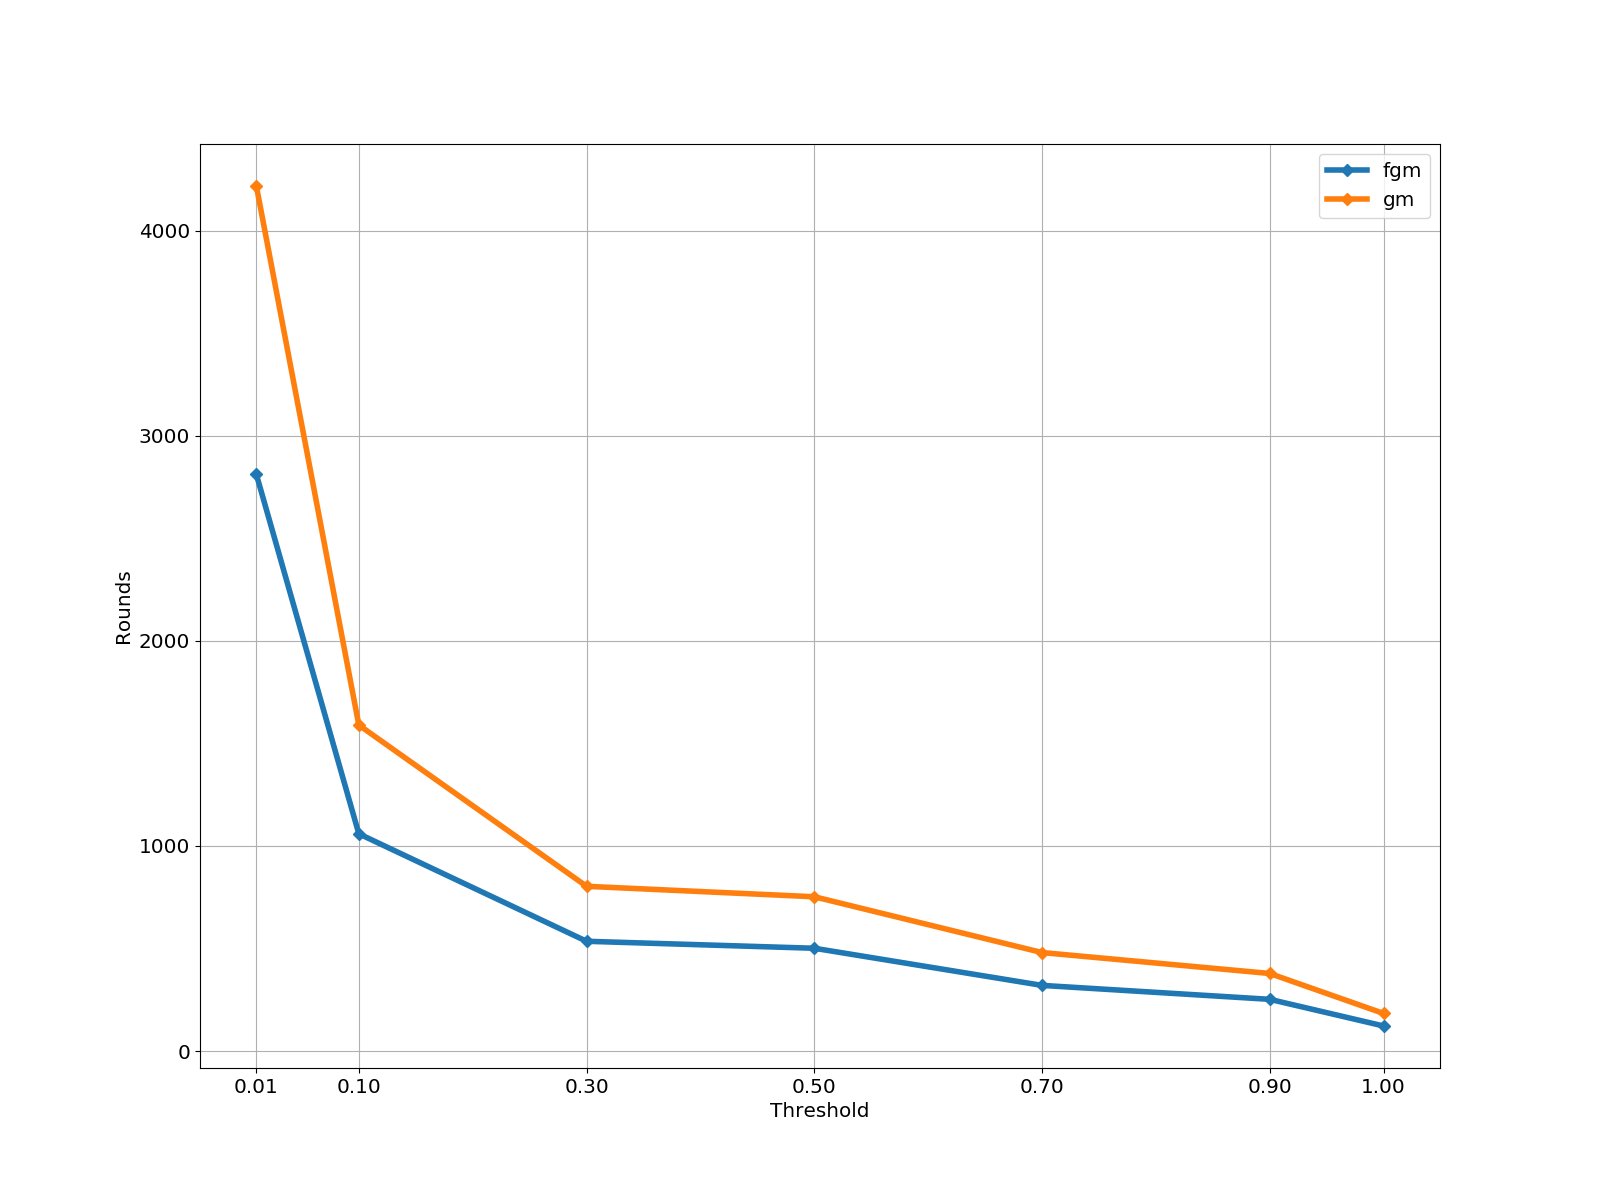
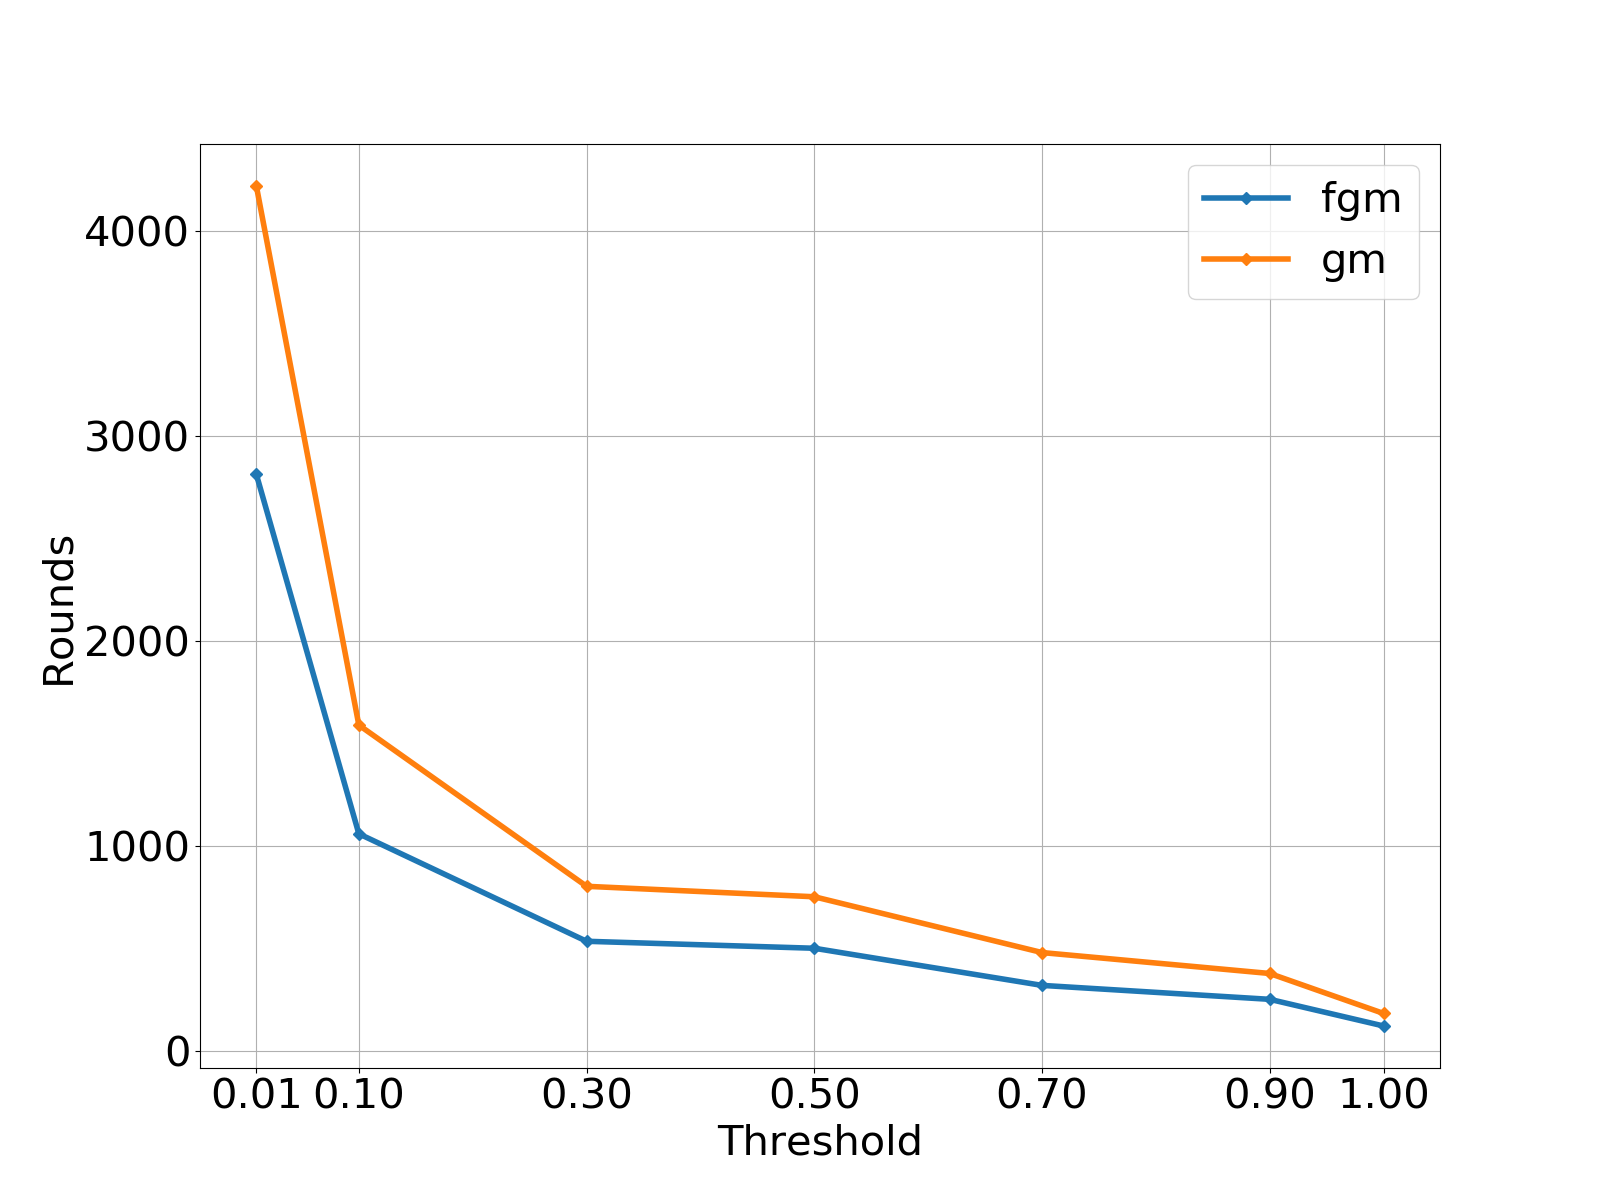
Result figures are now better on vision.

diff --git a/python/gm-fgm-amazon.py b/python/gm-fgm-amazon.py
@@ -11,6 +11,10 @@ gm_headers = ['id', 'threshold', 'batch-size', 'sites',
 
 gm_df = pd.read_csv('../results/gm-amazon.csv', usecols=gm_headers)
 
+FONT_SIZE = 30
+plt.rc('font', size=(FONT_SIZE - 8))
+
+
 # #### Model accuracy and rounds for various **thresholds** ####
 # - ***Threshold: { 0.01, 0.1, 0.3, 0.5, 0.7, 0.9, 1 }***
 # - Batch size: 16
@@ -32,13 +36,13 @@ y_centr = [98.37, 98.37, 98.37, 98.37, 98.37, 98.37, 98.37]
 plt.figure(figsize=(16, 12))
 plt.plot(x, y_fgm, label="fgm", marker='D', linewidth=4)
 plt.plot(x, y_gm, label="gm", marker='D', linewidth=4)
-plt.plot(x, y_centr, label="centralized")
-plt.xlabel('Threshold', fontsize='x-large')
-plt.ylabel('Accuracy', fontsize='x-large')
-plt.legend(loc='best', fontsize='x-large')
+plt.plot(x, y_centr, label="centralized", linewidth=4)
+plt.xlabel('Threshold', fontsize=FONT_SIZE)
+plt.ylabel('Accuracy', fontsize=FONT_SIZE)
+plt.legend(loc='best', fontsize=FONT_SIZE)
 plt.grid(True)
-plt.xticks(x, fontsize='x-large')
-plt.yticks(fontsize='x-large')
+plt.xticks(x, fontsize=FONT_SIZE)
+plt.yticks(fontsize=FONT_SIZE)
 plt.savefig("figs/exp_Fig_1_1")
 
 # Rounds
@@ -47,12 +51,12 @@ y_gm = _sorted_gm['rounds']
 plt.figure(figsize=(16, 12))
 plt.plot(x, y_fgm, label="fgm", marker='D', linewidth=4)
 plt.plot(x, y_gm, label="gm", marker='D', linewidth=4)
-plt.xlabel('Threshold', fontsize='x-large')
-plt.ylabel('Rounds', fontsize='x-large')
-plt.legend(loc='best', fontsize='x-large')
+plt.xlabel('Threshold', fontsize=FONT_SIZE)
+plt.ylabel('Rounds', fontsize=FONT_SIZE)
+plt.legend(loc='best', fontsize=FONT_SIZE)
 plt.grid(True)
-plt.xticks(x, fontsize='x-large')
-plt.yticks(fontsize='x-large')
+plt.xticks(x, fontsize=FONT_SIZE)
+plt.yticks(fontsize=FONT_SIZE)
 plt.savefig("figs/exp_Fig_1_2")
 
 # Traffic
@@ -61,20 +65,20 @@ y_gm = _sorted_gm['traffic']
 plt.figure(figsize=(16, 12))
 plt.plot(x, y_fgm, label="fgm", marker='D', linewidth=4)
 plt.plot(x, y_gm, label="gm", marker='D', linewidth=4)
-plt.xlabel('Threshold', fontsize='x-large')
-plt.ylabel('Traffic', fontsize='x-large')
-plt.legend(loc='best', fontsize='x-large')
+plt.xlabel('Threshold', fontsize=FONT_SIZE)
+plt.ylabel('Traffic', fontsize=FONT_SIZE)
+plt.legend(loc='best', fontsize=FONT_SIZE)
 plt.grid(True)
-plt.xticks(x, fontsize='x-large')
-plt.yticks(fontsize='x-large')
+plt.xticks(x, fontsize=FONT_SIZE)
+plt.yticks(fontsize=FONT_SIZE)
 plt.savefig("figs/exp_Fig_1_3")
 
 # #### Model accuracy and rounds for various **batch sizes** ####
 # - Threshold: 0.5
 # - ***Batch size: {1, 4, 16, 32, 64, 128}***
 # - Sites: 8
-# 
-# (Note! Experiment executes: 30) 
+#
+# (Note! Experiment executes: 30)
 fgm_subdf = fgm_df[(fgm_df['id'] >= 8) & (fgm_df['id'] <= 13)]
 _sorted_fgm = fgm_subdf.sort_values('batch-size')
 
@@ -90,13 +94,13 @@ y_centr = [98.37, 98.37, 98.37, 98.37, 98.37, 98.37]
 plt.figure(figsize=(16, 12))
 plt.plot(x, y_fgm, label="fgm", marker='D', linewidth=4)
 plt.plot(x, y_gm, label="gm", marker='D', linewidth=4)
-plt.plot(x, y_centr, label="centralized")
-plt.xlabel('Batch Size', fontsize='x-large')
-plt.ylabel('Accuracy', fontsize='x-large')
-plt.legend(loc='best', fontsize='x-large')
+plt.plot(x, y_centr, label="centralized", linewidth=4)
+plt.xlabel('Batch Size', fontsize=FONT_SIZE)
+plt.ylabel('Accuracy', fontsize=FONT_SIZE)
+plt.legend(loc='best', fontsize=FONT_SIZE)
 plt.grid(True)
-plt.xticks(x, fontsize='x-large')
-plt.yticks(fontsize='x-large')
+plt.xticks(x, fontsize=FONT_SIZE)
+plt.yticks(fontsize=FONT_SIZE)
 plt.savefig("figs/exp_Fig_2_1")
 
 # Rounds
@@ -105,12 +109,12 @@ y_gm = _sorted_gm['rounds']
 plt.figure(figsize=(16, 12))
 plt.plot(x, y_fgm, label="fgm", marker='D', linewidth=4)
 plt.plot(x, y_gm, label="gm", marker='D', linewidth=4)
-plt.xlabel('Batch Size', fontsize='x-large')
-plt.ylabel('Rounds', fontsize='x-large')
-plt.legend(loc='best', fontsize='x-large')
+plt.xlabel('Batch Size', fontsize=FONT_SIZE)
+plt.ylabel('Rounds', fontsize=FONT_SIZE)
+plt.legend(loc='best', fontsize=FONT_SIZE)
 plt.grid(True)
-plt.xticks(x, fontsize='x-large')
-plt.yticks(fontsize='x-large')
+plt.xticks(x, fontsize=FONT_SIZE)
+plt.yticks(fontsize=FONT_SIZE)
 plt.savefig("figs/exp_Fig_2_2")
 
 # Traffic
@@ -119,20 +123,20 @@ y_gm = _sorted_gm['traffic']
 plt.figure(figsize=(16, 12))
 plt.plot(x, y_fgm, label="fgm", marker='D', linewidth=4)
 plt.plot(x, y_gm, label="gm", marker='D', linewidth=4)
-plt.xlabel('Batch size', fontsize='x-large')
-plt.ylabel('Traffic', fontsize='x-large')
-plt.legend(loc='best', fontsize='x-large')
+plt.xlabel('Batch size', fontsize=FONT_SIZE)
+plt.ylabel('Traffic', fontsize=FONT_SIZE)
+plt.legend(loc='best', fontsize=FONT_SIZE)
 plt.grid(True)
-plt.xticks(x, fontsize='x-large')
-plt.yticks(fontsize='x-large')
+plt.xticks(x, fontsize=FONT_SIZE)
+plt.yticks(fontsize=FONT_SIZE)
 plt.savefig("figs/exp_Fig_2_3")
 
 # #### Model accuracy and rounds for various **sites** ####
 # - Threshold: 0.5
 # - Batch size: 16
 # - ***Sites: {4, 8, 16, 32, 64, 128}***
-# 
-# (Note! Experiment executes: 30) 
+#
+# (Note! Experiment executes: 30)
 fgm_subdf = fgm_df[(fgm_df['id'] >= 14) & (fgm_df['id'] <= 19)]
 _sorted_fgm = fgm_subdf.sort_values('sites')
 
@@ -148,13 +152,13 @@ y_centr = [98.37, 98.37, 98.37, 98.37, 98.37, 98.37]
 plt.figure(figsize=(16, 12))
 plt.plot(x, y_fgm, label="fgm", marker='D', linewidth=4)
 plt.plot(x, y_gm, label="gm", marker='D', linewidth=4)
-plt.plot(x, y_centr, label="centralized")
-plt.xlabel('Sites', fontsize='x-large')
-plt.ylabel('Accuracy', fontsize='x-large')
-plt.legend(loc='best', fontsize='x-large')
+plt.plot(x, y_centr, label="centralized", linewidth=4)
+plt.xlabel('Sites', fontsize=FONT_SIZE)
+plt.ylabel('Accuracy', fontsize=FONT_SIZE)
+plt.legend(loc='best', fontsize=FONT_SIZE)
 plt.grid(True)
-plt.xticks(x, fontsize='x-large')
-plt.yticks(fontsize='x-large')
+plt.xticks(x, fontsize=FONT_SIZE)
+plt.yticks(fontsize=FONT_SIZE)
 plt.savefig("figs/exp_Fig_3_1")
 
 # Rounds
@@ -163,12 +167,12 @@ y_gm = _sorted_gm['rounds']
 plt.figure(figsize=(16, 12))
 plt.plot(x, y_fgm, label="fgm", marker='D', linewidth=4)
 plt.plot(x, y_gm, label="gm", marker='D', linewidth=4)
-plt.xlabel('Sites', fontsize='x-large')
-plt.ylabel('Rounds', fontsize='x-large')
-plt.legend(loc='best', fontsize='x-large')
+plt.xlabel('Sites', fontsize=FONT_SIZE)
+plt.ylabel('Rounds', fontsize=FONT_SIZE)
+plt.legend(loc='best', fontsize=FONT_SIZE)
 plt.grid(True)
-plt.xticks(x, fontsize='x-large')
-plt.yticks(fontsize='x-large')
+plt.xticks(x, fontsize=FONT_SIZE)
+plt.yticks(fontsize=FONT_SIZE)
 plt.savefig("figs/exp_Fig_3_2")
 
 # Traffic
@@ -177,10 +181,10 @@ y_gm = _sorted_gm['traffic']
 plt.figure(figsize=(16, 12))
 plt.plot(x, y_fgm, label="fgm", marker='D', linewidth=4)
 plt.plot(x, y_gm, label="gm", marker='D', linewidth=4)
-plt.xlabel('Sites', fontsize='x-large')
-plt.ylabel('Traffic', fontsize='x-large')
-plt.legend(loc='best', fontsize='x-large')
+plt.xlabel('Sites', fontsize=FONT_SIZE)
+plt.ylabel('Traffic', fontsize=FONT_SIZE)
+plt.legend(loc='best', fontsize=FONT_SIZE)
 plt.grid(True)
-plt.xticks(x, fontsize='x-large')
-plt.yticks(fontsize='x-large')
+plt.xticks(x, fontsize=FONT_SIZE)
+plt.yticks(fontsize=FONT_SIZE)
 plt.savefig("figs/exp_Fig_3_3")
